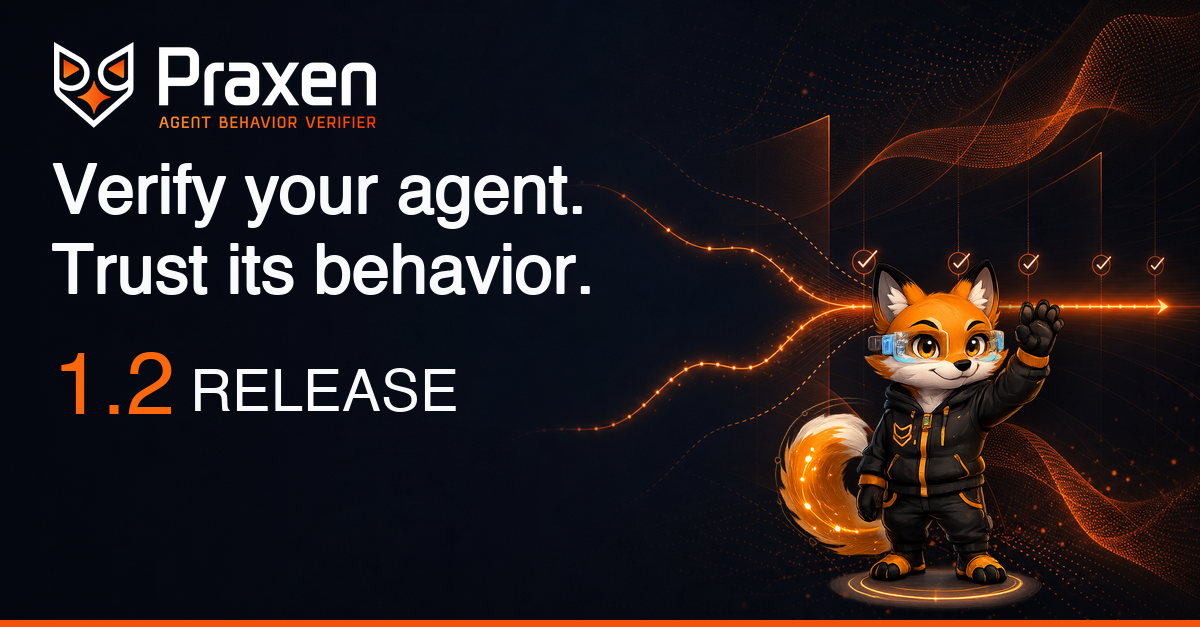
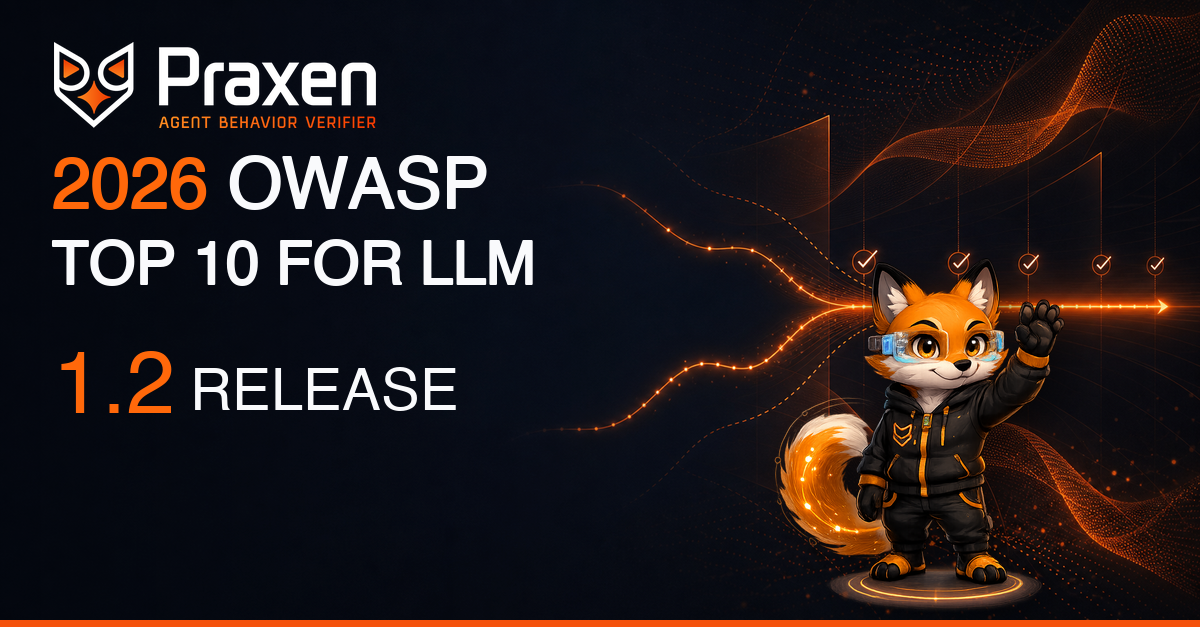
fix(blog): swap Praxen 1.2 header image to the OWASP-themed variant
Replaces the generic tagline image with the "2026 OWASP TOP 10 FOR LLM"
variant, which matches the post's actual topic.

Changed region(s): [[0.0308, 0.2424, 0.4933, 0.4848], [0.2775, 0.5758, 0.3392, 0.6667], [0.0925, 0.6364, 0.1233, 0.6667]]

diff --git a/blog/praxen-1-2-release/index.html b/blog/praxen-1-2-release/index.html
@@ -81,7 +81,7 @@ footer{border-top:1px solid var(--bd);background:var(--bg2);padding:50px 0 38px}
 .sponsor-band a.exa:hover .exa-logo{opacity:1}
 .sponsor-note{max-width:540px;margin:2px 0 0;color:var(--mut);font-size:14.5px;line-height:1.6}
 @media(max-width:600px){h1{font-size:28px}.foot-grid{gap:30px}}
-</style><script data-goatcounter="https://open-agent-ai-security.goatcounter.com/count" async src="../../assets/count.js"></script><script defer src="https://static.cloudflareinsights.com/beacon.min.js" data-cf-beacon='{"token": "223642421cad463daf91bd9429a5f9a0"}'></script></head><body><header class="nav"><div class="wrap nav-inner"><a class="brand" href="../../"><img class="logo" src="../../assets/community-logo-dark-background.svg" alt="Open Agent &amp; AI Security Community" width="131" height="30"></a><nav class="nav-links"><a href="../../#mission">Mission &amp; vision</a><a href="../../#purpose">Purpose</a><a href="../../#projects">Projects</a><a href="../" class="active">Blog</a><a href="../../#join">Join</a></nav><div class="nav-cta"><a class="btn btn-ghost" href="https://github.com/open-agent-ai-security" target="_blank" rel="noopener"><svg width="16" height="16" viewBox="0 0 24 24" fill="currentColor" aria-hidden="true"><path d="M12 .5C5.7.5.5 5.7.5 12c0 5.1 3.3 9.4 7.9 10.9.6.1.8-.2.8-.6v-2c-3.2.7-3.9-1.4-3.9-1.4-.5-1.3-1.3-1.7-1.3-1.7-1.1-.7.1-.7.1-.7 1.2.1 1.8 1.2 1.8 1.2 1 1.8 2.8 1.3 3.5 1 .1-.8.4-1.3.7-1.6-2.6-.3-5.3-1.3-5.3-5.7 0-1.3.5-2.3 1.2-3.1-.1-.3-.5-1.5.1-3.1 0 0 1-.3 3.3 1.2a11.5 11.5 0 0 1 6 0C17.3 4.7 18.3 5 18.3 5c.6 1.6.2 2.8.1 3.1.8.8 1.2 1.8 1.2 3.1 0 4.4-2.7 5.4-5.3 5.7.4.4.8 1.1.8 2.2v3.3c0 .4.2.7.8.6 4.6-1.5 7.9-5.8 7.9-10.9C23.5 5.7 18.3.5 12 .5z"/></svg> GitHub</a></div></div></header><main><div class="content"><img class="post-hero" src="../images/praxen-1.2-release.png" alt="Praxen 1.2 release — Verify your agent. Trust its behavior."><p class="eyebrow">Community blog</p><h1>Praxen 1.2: Now Aligned to the 2026 OWASP Top 10 for LLM Applications</h1><div class="meta">July 29, 2026 &middot; Steve Wilson &middot; <span class="tag">release</span><span class="tag">praxen</span></div><ul class="toc"><li><a href="#whats-new-in-praxen-12">What&#x27;s new in Praxen 1.2</a></li><li><a href="#why-the-owasp-update-matters">Why the OWASP update matters</a></li><li><a href="#built-in-the-open">Built in the open</a></li><li><a href="#get-praxen-12">Get Praxen 1.2</a></li></ul><p>Today we're releasing <strong>Praxen 1.2</strong>, with support for the 2026 OWASP Top 10 for LLM Applications.</p>
+</style><script data-goatcounter="https://open-agent-ai-security.goatcounter.com/count" async src="../../assets/count.js"></script><script defer src="https://static.cloudflareinsights.com/beacon.min.js" data-cf-beacon='{"token": "223642421cad463daf91bd9429a5f9a0"}'></script></head><body><header class="nav"><div class="wrap nav-inner"><a class="brand" href="../../"><img class="logo" src="../../assets/community-logo-dark-background.svg" alt="Open Agent &amp; AI Security Community" width="131" height="30"></a><nav class="nav-links"><a href="../../#mission">Mission &amp; vision</a><a href="../../#purpose">Purpose</a><a href="../../#projects">Projects</a><a href="../" class="active">Blog</a><a href="../../#join">Join</a></nav><div class="nav-cta"><a class="btn btn-ghost" href="https://github.com/open-agent-ai-security" target="_blank" rel="noopener"><svg width="16" height="16" viewBox="0 0 24 24" fill="currentColor" aria-hidden="true"><path d="M12 .5C5.7.5.5 5.7.5 12c0 5.1 3.3 9.4 7.9 10.9.6.1.8-.2.8-.6v-2c-3.2.7-3.9-1.4-3.9-1.4-.5-1.3-1.3-1.7-1.3-1.7-1.1-.7.1-.7.1-.7 1.2.1 1.8 1.2 1.8 1.2 1 1.8 2.8 1.3 3.5 1 .1-.8.4-1.3.7-1.6-2.6-.3-5.3-1.3-5.3-5.7 0-1.3.5-2.3 1.2-3.1-.1-.3-.5-1.5.1-3.1 0 0 1-.3 3.3 1.2a11.5 11.5 0 0 1 6 0C17.3 4.7 18.3 5 18.3 5c.6 1.6.2 2.8.1 3.1.8.8 1.2 1.8 1.2 3.1 0 4.4-2.7 5.4-5.3 5.7.4.4.8 1.1.8 2.2v3.3c0 .4.2.7.8.6 4.6-1.5 7.9-5.8 7.9-10.9C23.5 5.7 18.3.5 12 .5z"/></svg> GitHub</a></div></div></header><main><div class="content"><img class="post-hero" src="../images/praxen-1.2-release.png" alt="Praxen 1.2 release — 2026 OWASP Top 10 for LLM."><p class="eyebrow">Community blog</p><h1>Praxen 1.2: Now Aligned to the 2026 OWASP Top 10 for LLM Applications</h1><div class="meta">July 29, 2026 &middot; Steve Wilson &middot; <span class="tag">release</span><span class="tag">praxen</span></div><ul class="toc"><li><a href="#whats-new-in-praxen-12">What&#x27;s new in Praxen 1.2</a></li><li><a href="#why-the-owasp-update-matters">Why the OWASP update matters</a></li><li><a href="#built-in-the-open">Built in the open</a></li><li><a href="#get-praxen-12">Get Praxen 1.2</a></li></ul><p>Today we're releasing <strong>Praxen 1.2</strong>, with support for the 2026 OWASP Top 10 for LLM Applications.</p>
 <p>This is more than a terminology update. Praxen now evaluates agent risks using the latest OWASP guidance, helping teams connect what an agent can do, what it is allowed to do, and where its controls may fall short against the industry's most current risk model.</p>
 <p>For developers and security teams, that means Praxen findings are easier to interpret, prioritize, and communicate using a framework the broader industry already recognizes.</p>
 <blockquote>

diff --git a/blog/posts/2026-07-29-praxen-1-2-release.md b/blog/posts/2026-07-29-praxen-1-2-release.md
@@ -5,7 +5,7 @@ date: 2026-07-29
 summary: Praxen 1.2 aligns risk findings to the 2026 OWASP Top 10 for LLM Applications, with clearer scoring, scan-to-scan comparisons, and a new shareable Worker Remit.
 tags: release, praxen
 image: praxen-1.2-release.png
-image_alt: Praxen 1.2 release — Verify your agent. Trust its behavior.
+image_alt: Praxen 1.2 release — 2026 OWASP Top 10 for LLM.
 ---
 
 Today we're releasing **Praxen 1.2**, with support for the 2026 OWASP Top 10 for LLM Applications.
